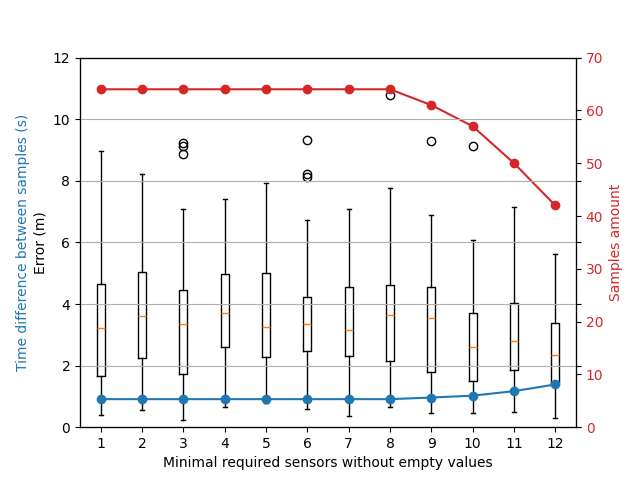
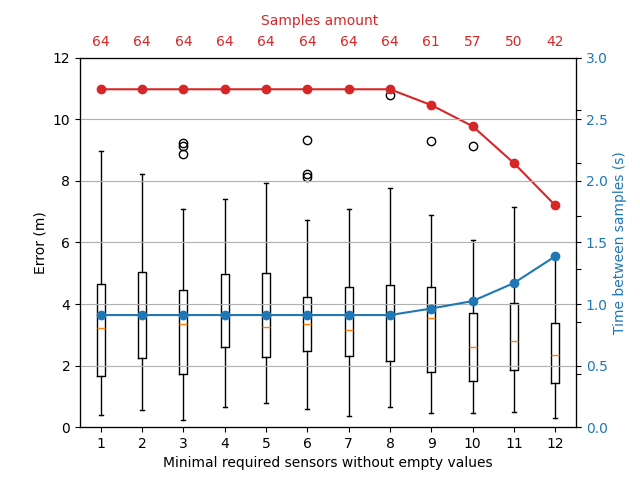
Ajustando gráficos sobre pruebas de filtrado

diff --git a/01-posicionamiento/filter_settings_tests/FSTn_tester.py b/01-posicionamiento/filter_settings_tests/FSTn_tester.py
@@ -4,6 +4,7 @@ import tensorflow as tf
 import matplotlib.pyplot as plt
 import math
 import os.path
+import numbers
 import pickle
 import autokeras as ak
 from sklearn.model_selection import train_test_split
@@ -13,7 +14,7 @@ script_dir = os.path.dirname(os.path.abspath(__file__)) #Referencia al directori
 root_dir = script_dir+'/../../'                                                                        #Referencia al directorio raiz del proyecto
 sys.path.insert(1, root_dir)
 from lib.trainingcommon import set_random_seed_value, load_data, save_history, save_model, descale_pos_x, descale_pos_y
-from models.M1 import M1
+from lib.models import M1
 
 # Objetivos:
 # FST1: Nº mínimo de medidas por sensor obligatorias VS error de predicción y número de muestras
@@ -38,11 +39,11 @@ test_specific_settings = {
 		'test_values': ['max', 'min', 'mean', 'median', 'tss'],
 	},
 	'FST4': {
-		'chart_x_label': 'Max window size',
+		'chart_x_label': 'Max window size (s)',
 		'test_values': ["1.0", "1.25", "1.5", "1.75", "2.0", "2.25", "2.5", "2.75", "3.0"],
 	},
 	'FST5': {
-		'chart_x_label': 'Min window size',
+		'chart_x_label': 'Min window size (s)',
 		'test_values': ["0.25", "0.5", "0.75", "1.0", "1.25", "1.5", "1.75"],
 	},
 }
@@ -54,7 +55,7 @@ dim_x = 20.660138018121128
 dim_y = 17.64103475472807
 
 #Configuración de la prueba
-test_name = 'FST5'
+test_name = 'FST4'
 output_dir = script_dir+'/output/'+test_name+'/'
 output_dir_models = output_dir+'models/'
 input_data_dir = root_dir+'preprocessed_inputs/paper1/'
@@ -209,43 +210,43 @@ for test_value in test_values:
 general_results = pd.DataFrame(general_results)
 general_results.to_csv(general_results_file, index=False)
 
-#Imprimimos la gráfica
-# Primer eje con el error medio
-fig, ax1 = plt.subplots()
-ax1.set_xlabel(chart_x_label)
-ax1.set_ylabel('Mean error (m)', color='tab:blue')
-ax1.set_ylim([0, general_results['mean_euclidean'].max()+0.5])
-plot_1 = ax1.plot(general_results['test_value'], general_results['mean_euclidean'], label='Mean error (m)', color='tab:blue', marker='o')
-#ax1.tick_params(axis='y', labelcolor='tab:blue')
+# #Imprimimos la gráfica
+# # Primer eje con el error medio
+# fig, ax1 = plt.subplots()
+# ax1.set_xlabel(chart_x_label)
+# ax1.set_ylabel('Mean error (m)', color='tab:blue')
+# ax1.set_ylim([0, general_results['mean_euclidean'].max()+0.5])
+# plot_1 = ax1.plot(general_results['test_value'], general_results['mean_euclidean'], label='Mean error (m)', color='tab:blue', marker='o')
+# #ax1.tick_params(axis='y', labelcolor='tab:blue')
 
-# Segundo eje con la cantidad de muestras
-ax2 = ax1.twinx()
-ax2.set_ylabel('Samples amount', color='tab:red')
-ax2.set_ylim([0, general_results['test_samples_amount'].max()+1])
-plot_2 = ax2.plot(general_results['test_value'], general_results['test_samples_amount'], label='Samples amount', color='tab:red', marker='o')
-#ax2.tick_params(axis='y', labelcolor='tab:red')
+# # Segundo eje con la cantidad de muestras
+# ax2 = ax1.twinx()
+# ax2.set_ylabel('Samples amount', color='tab:red')
+# ax2.set_ylim([0, general_results['test_samples_amount'].max()+1])
+# plot_2 = ax2.plot(general_results['test_value'], general_results['test_samples_amount'], label='Samples amount', color='tab:red', marker='o')
+# #ax2.tick_params(axis='y', labelcolor='tab:red')
 
-# Tercer eje con la desviación estandar
-ax3 = ax1.twinx()
-ax3.set_yticklabels([])  # Ocultar los valores del eje y, pero mantener las líneas del eje
-ax3.yaxis.set_label_position('left')  # Colocar la etiqueta del eje y a la izquierda
-ax3.yaxis.set_label_coords(-0.1, 0)  # Colocamos la etiqueta del eje y a la izquierda
-ax3.set_ylabel('Standard deviation (m)', color='tab:green')
-ax3.set_ylim([0, general_results['mean_euclidean'].max()+0.5])
-plot_3 = ax3.plot(general_results['test_value'], general_results['standard_deviation_euclidean'], label='Standard deviation (m)', color='tab:green', marker='o')
-#ax3.tick_params(axis='y', labelcolor='tab:green')
+# # Tercer eje con la desviación estandar
+# ax3 = ax1.twinx()
+# ax3.set_yticklabels([])  # Ocultar los valores del eje y, pero mantener las líneas del eje
+# ax3.yaxis.set_label_position('left')  # Colocar la etiqueta del eje y a la izquierda
+# ax3.yaxis.set_label_coords(-0.1, 0)  # Colocamos la etiqueta del eje y a la izquierda
+# ax3.set_ylabel('Standard deviation (m)', color='tab:green')
+# ax3.set_ylim([0, general_results['mean_euclidean'].max()+0.5])
+# plot_3 = ax3.plot(general_results['test_value'], general_results['standard_deviation_euclidean'], label='Standard deviation (m)', color='tab:green', marker='o')
+# #ax3.tick_params(axis='y', labelcolor='tab:green')
 
-# Leyenda
-# plots = plot_1 + plot_2 + plot_3
-# labels = [l.get_label() for l in plots]
-# ax1.legend(plots, labels, loc='lower left')
+# # Leyenda
+# # plots = plot_1 + plot_2 + plot_3
+# # labels = [l.get_label() for l in plots]
+# # ax1.legend(plots, labels, loc='lower left')
 
-plt.xticks(general_results['test_value'])
-#plt.gca().set_aspect('equal', adjustable='datalim') # Para que los ejes tengan la misma escala
-plt.grid(True, which='both', linestyle='-', linewidth=0.5)
-plt.minorticks_on()
-plt.grid(which='minor', linestyle=':', linewidth='0.5', color='gray')
-plt.savefig(general_figure_file)
+# plt.xticks(general_results['test_value'])
+# #plt.gca().set_aspect('equal', adjustable='datalim') # Para que los ejes tengan la misma escala
+# plt.grid(True, which='both', linestyle='-', linewidth=0.5)
+# plt.minorticks_on()
+# plt.grid(which='minor', linestyle=':', linewidth='0.5', color='gray')
+# plt.savefig(general_figure_file)
 
 
 ##Imprimimos la gráfica de cajas
@@ -258,27 +259,37 @@ ax1.set_ylim([0, 12])
 # Calculate the positions for the boxplots
 positions = general_results['test_value']
 #si positions no es numérico, tenemos que aplicar unas posiciones generadas
-if not isinstance(positions[0], (int, float)):	
+if not isinstance(positions[0], numbers.Number):	
 	positions = np.arange(len(general_results['test_value']))
 plot_1 = ax1.boxplot(deviations, positions=positions, showfliers=True, widths=0.2)
 ax1.set_xticklabels(general_results['test_value'])
 
 # Segundo eje con la cantidad de muestras
 ax2 = ax1.twinx()
-ax2.set_ylabel('Samples amount', color='tab:red')
+#ax2.set_ylabel('Samples amount', color='tab:red')
 ax2.set_ylim([0, 70])
 plot_2 = ax2.plot(general_results['test_value'], general_results['test_samples_amount'], label='Samples amount', color='tab:red', marker='o')
-ax2.tick_params(axis='y', labelcolor='tab:red')
-ax2.set_xticklabels(general_results['test_value'])
+#ax2.tick_params(axis='y', labelcolor='tab:red')
+#ax2.set_xticklabels(general_results['test_value'])
+ax2.set_yticklabels([]) #Ocultar valores en el eje
+ax2.yaxis.grid(False)
+
+# Iterar sobre las posiciones y los números de muestras
+for pos, num_samples in zip(positions, general_results['test_samples_amount']):
+    # Usar annotate para agregar una anotación en la posición correspondiente
+    ax1.annotate(str(num_samples), (pos, 1), xytext=(0, 250), 
+                 textcoords='offset points', ha='center', va='bottom', color='tab:red')
+ax1.annotate("Samples amount", (0.5, 1), xytext=(0, -20), xycoords='figure fraction', textcoords='offset points', ha='center', va='bottom', color='tab:red')
+
 
 # Tercer eje con la frecuencia de muestras
 ax3 = ax1.twinx()
-ax3.set_yticklabels([])  # Ocultar los valores del eje y, pero mantener las líneas del eje
-ax3.yaxis.set_label_position('left')  # Colocar la etiqueta del eje y a la izquierda
-ax3.yaxis.set_label_coords(-0.1, 0)  # Colocamos la etiqueta del eje y a la izquierda
-ax3.set_ylabel('Time difference between samples (s)', color='tab:blue')
-ax3.set_ylim([0, 12])
-plot_3 = ax3.plot(general_results['test_value'], general_results['mean_time_diff'], label='Time difference between samples (s)', color='tab:blue', marker='o')
+ax3.set_xticks(positions)
+ax3.set_ylabel('Time between samples (s)', color='tab:blue')
+ax3.set_ylim([0, 3])
+plot_3 = ax3.plot(general_results['test_value'], general_results['mean_time_diff'], label='Time between samples (s)', color='tab:blue', marker='o')
+ax3.tick_params(axis='y', labelcolor='tab:blue')
+ax3.set_xticklabels(general_results['test_value'])
 
 plt.xticks(general_results['test_value'])
 plt.grid(True)
